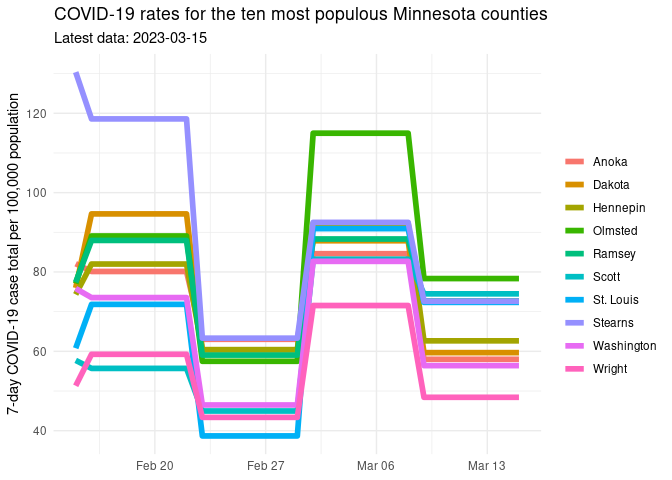
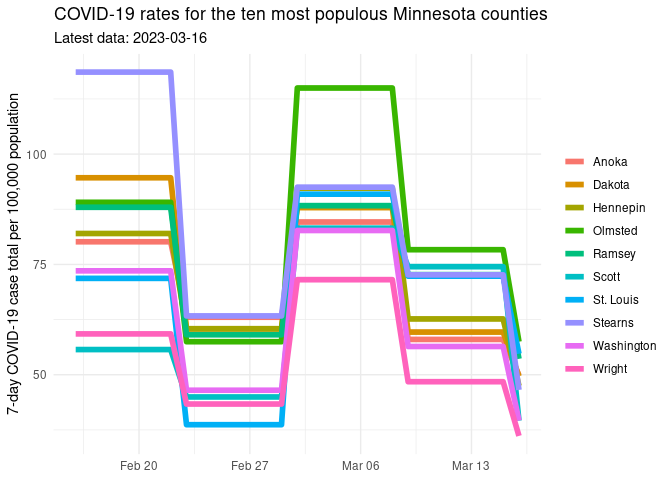
Updated report

diff --git a/README.md b/README.md
@@ -1,7 +1,7 @@
 Minnesota COVID Report
 ================
 
-Report last run: 2023-03-16 22:31:03
+Report last run: 2023-03-17 22:29:54
 
 ## Introduction
 
